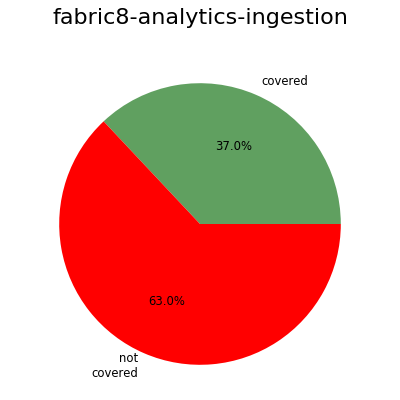
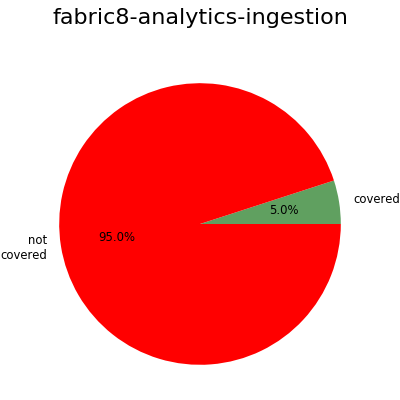
Dashboard 2018-06-06

diff --git a/dashboard/fabric8-analytics-common.cc.A.html b/dashboard/fabric8-analytics-common.cc.A.html
@@ -97,46 +97,42 @@ dashboard/src/s3_configuration.py
     <span style="color:#00AAAA">C </span>5:0 S3Configuration - <span style="color:#00AA00">A (1)</span>
     <span style="color:#00AA00">M </span>8:4 S3Configuration.__init__ - <span style="color:#00AA00">A (1)</span>
 dashboard/src/dashboard.py
-    <span style="color:#AA00AA">F </span>330:0 update_overall_status - <span style="color:#00AA00">B (9)</span>
-    <span style="color:#AA00AA">F </span>205:0 parse_linter_results - <span style="color:#00AA00">B (8)</span>
-    <span style="color:#AA00AA">F </span>455:0 prepare_data_for_repositories - <span style="color:#00AA00">B (8)</span>
-    <span style="color:#AA00AA">F </span>283:0 compute_status - <span style="color:#00AA00">B (7)</span>
-    <span style="color:#AA00AA">F </span>255:0 parse_cyclomatic_complexity - <span style="color:#00AA00">B (6)</span>
-    <span style="color:#AA00AA">F </span>562:0 main - <span style="color:#00AA00">B (6)</span>
-    <span style="color:#AA00AA">F </span>60:0 check_system - <span style="color:#00AA00">A (5)</span>
-    <span style="color:#AA00AA">F </span>546:0 production_smoketests_status - <span style="color:#00AA00">A (5)</span>
-    <span style="color:#AA00AA">F </span>270:0 parse_maintainability_index - <span style="color:#00AA00">A (4)</span>
-    <span style="color:#AA00AA">F </span>319:0 remark_unit_test_coverage - <span style="color:#00AA00">A (3)</span>
-    <span style="color:#AA00AA">F </span>397:0 export_into_csv - <span style="color:#00AA00">A (3)</span>
-    <span style="color:#AA00AA">F </span>520:0 jobs_as_dict - <span style="color:#00AA00">A (3)</span>
-    <span style="color:#AA00AA">F </span>538:0 read_job_statuses - <span style="color:#00AA00">A (3)</span>
-    <span style="color:#AA00AA">F </span>30:0 check_environment_variable - <span style="color:#00AA00">A (2)</span>
-    <span style="color:#AA00AA">F </span>42:0 check_environment_variables - <span style="color:#00AA00">A (2)</span>
-    <span style="color:#AA00AA">F </span>142:0 clone_or_fetch_repository - <span style="color:#00AA00">A (2)</span>
-    <span style="color:#AA00AA">F </span>167:0 run_cyclomatic_complexity_tool - <span style="color:#00AA00">A (2)</span>
-    <span style="color:#AA00AA">F </span>183:0 run_maintainability_index - <span style="color:#00AA00">A (2)</span>
-    <span style="color:#AA00AA">F </span>196:0 percentage - <span style="color:#00AA00">A (2)</span>
-    <span style="color:#AA00AA">F </span>295:0 remark_linter - <span style="color:#00AA00">A (2)</span>
-    <span style="color:#AA00AA">F </span>302:0 remark_docstyle - <span style="color:#00AA00">A (2)</span>
-    <span style="color:#AA00AA">F </span>309:0 remark_linter_vs_docstyle - <span style="color:#00AA00">A (2)</span>
-    <span style="color:#AA00AA">F </span>389:0 cleanup_repository - <span style="color:#00AA00">A (2)</span>
-    <span style="color:#AA00AA">F </span>498:0 read_jobs_statuses - <span style="color:#00AA00">A (2)</span>
-    <span style="color:#AA00AA">F </span>504:0 store_jobs_statuses - <span style="color:#00AA00">A (2)</span>
-    <span style="color:#AA00AA">F </span>557:0 get_code_coverage_threshold - <span style="color:#00AA00">A (2)</span>
-    <span style="color:#AA00AA">F </span>121:0 is_repository_cloned - <span style="color:#00AA00">A (1)</span>
-    <span style="color:#AA00AA">F </span>126:0 clone_repository - <span style="color:#00AA00">A (1)</span>
-    <span style="color:#AA00AA">F </span>135:0 fetch_repository - <span style="color:#00AA00">A (1)</span>
-    <span style="color:#AA00AA">F </span>150:0 run_pylint - <span style="color:#00AA00">A (1)</span>
-    <span style="color:#AA00AA">F </span>158:0 run_docstyle_check - <span style="color:#00AA00">A (1)</span>
-    <span style="color:#AA00AA">F </span>240:0 parse_pylint_results - <span style="color:#00AA00">A (1)</span>
-    <span style="color:#AA00AA">F </span>245:0 parse_docstyle_results - <span style="color:#00AA00">A (1)</span>
-    <span style="color:#AA00AA">F </span>250:0 prepare_radon_results - <span style="color:#00AA00">A (1)</span>
-    <span style="color:#AA00AA">F </span>382:0 delete_work_files - <span style="color:#00AA00">A (1)</span>
-    <span style="color:#AA00AA">F </span>426:0 prepare_data_for_liveness_table - <span style="color:#00AA00">A (1)</span>
-    <span style="color:#AA00AA">F </span>444:0 prepare_data_for_sla_table - <span style="color:#00AA00">A (1)</span>
-    <span style="color:#AA00AA">F </span>510:0 jenkins_api_query_job_statuses - <span style="color:#00AA00">A (1)</span>
-    <span style="color:#AA00AA">F </span>515:0 jenkins_api_query_build_statuses - <span style="color:#00AA00">A (1)</span>
-    <span style="color:#AA00AA">F </span>525:0 read_ci_jobs_statuses - <span style="color:#00AA00">A (1)</span>
+    <span style="color:#AA00AA">F </span>302:0 update_overall_status - <span style="color:#00AA00">B (9)</span>
+    <span style="color:#AA00AA">F </span>177:0 parse_linter_results - <span style="color:#00AA00">B (8)</span>
+    <span style="color:#AA00AA">F </span>427:0 prepare_data_for_repositories - <span style="color:#00AA00">B (8)</span>
+    <span style="color:#AA00AA">F </span>255:0 compute_status - <span style="color:#00AA00">B (7)</span>
+    <span style="color:#AA00AA">F </span>227:0 parse_cyclomatic_complexity - <span style="color:#00AA00">B (6)</span>
+    <span style="color:#AA00AA">F </span>534:0 main - <span style="color:#00AA00">B (6)</span>
+    <span style="color:#AA00AA">F </span>61:0 check_system - <span style="color:#00AA00">A (5)</span>
+    <span style="color:#AA00AA">F </span>518:0 production_smoketests_status - <span style="color:#00AA00">A (5)</span>
+    <span style="color:#AA00AA">F </span>242:0 parse_maintainability_index - <span style="color:#00AA00">A (4)</span>
+    <span style="color:#AA00AA">F </span>291:0 remark_unit_test_coverage - <span style="color:#00AA00">A (3)</span>
+    <span style="color:#AA00AA">F </span>369:0 export_into_csv - <span style="color:#00AA00">A (3)</span>
+    <span style="color:#AA00AA">F </span>492:0 jobs_as_dict - <span style="color:#00AA00">A (3)</span>
+    <span style="color:#AA00AA">F </span>510:0 read_job_statuses - <span style="color:#00AA00">A (3)</span>
+    <span style="color:#AA00AA">F </span>31:0 check_environment_variable - <span style="color:#00AA00">A (2)</span>
+    <span style="color:#AA00AA">F </span>43:0 check_environment_variables - <span style="color:#00AA00">A (2)</span>
+    <span style="color:#AA00AA">F </span>139:0 run_cyclomatic_complexity_tool - <span style="color:#00AA00">A (2)</span>
+    <span style="color:#AA00AA">F </span>155:0 run_maintainability_index - <span style="color:#00AA00">A (2)</span>
+    <span style="color:#AA00AA">F </span>168:0 percentage - <span style="color:#00AA00">A (2)</span>
+    <span style="color:#AA00AA">F </span>267:0 remark_linter - <span style="color:#00AA00">A (2)</span>
+    <span style="color:#AA00AA">F </span>274:0 remark_docstyle - <span style="color:#00AA00">A (2)</span>
+    <span style="color:#AA00AA">F </span>281:0 remark_linter_vs_docstyle - <span style="color:#00AA00">A (2)</span>
+    <span style="color:#AA00AA">F </span>361:0 cleanup_repository - <span style="color:#00AA00">A (2)</span>
+    <span style="color:#AA00AA">F </span>470:0 read_jobs_statuses - <span style="color:#00AA00">A (2)</span>
+    <span style="color:#AA00AA">F </span>476:0 store_jobs_statuses - <span style="color:#00AA00">A (2)</span>
+    <span style="color:#AA00AA">F </span>529:0 get_code_coverage_threshold - <span style="color:#00AA00">A (2)</span>
+    <span style="color:#AA00AA">F </span>122:0 run_pylint - <span style="color:#00AA00">A (1)</span>
+    <span style="color:#AA00AA">F </span>130:0 run_docstyle_check - <span style="color:#00AA00">A (1)</span>
+    <span style="color:#AA00AA">F </span>212:0 parse_pylint_results - <span style="color:#00AA00">A (1)</span>
+    <span style="color:#AA00AA">F </span>217:0 parse_docstyle_results - <span style="color:#00AA00">A (1)</span>
+    <span style="color:#AA00AA">F </span>222:0 prepare_radon_results - <span style="color:#00AA00">A (1)</span>
+    <span style="color:#AA00AA">F </span>354:0 delete_work_files - <span style="color:#00AA00">A (1)</span>
+    <span style="color:#AA00AA">F </span>398:0 prepare_data_for_liveness_table - <span style="color:#00AA00">A (1)</span>
+    <span style="color:#AA00AA">F </span>416:0 prepare_data_for_sla_table - <span style="color:#00AA00">A (1)</span>
+    <span style="color:#AA00AA">F </span>482:0 jenkins_api_query_job_statuses - <span style="color:#00AA00">A (1)</span>
+    <span style="color:#AA00AA">F </span>487:0 jenkins_api_query_build_statuses - <span style="color:#00AA00">A (1)</span>
+    <span style="color:#AA00AA">F </span>497:0 read_ci_jobs_statuses - <span style="color:#00AA00">A (1)</span>
 dashboard/src/smoke_tests.py
     <span style="color:#00AA00">M </span>41:4 SmokeTests.read_ci_results - <span style="color:#00AA00">A (4)</span>
     <span style="color:#00AA00">M </span>34:4 SmokeTests.read_logs - <span style="color:#00AA00">A (3)</span>
@@ -155,6 +151,16 @@ dashboard/src/coreapi.py
     <span style="color:#00AAAA">C </span>6:0 CoreApi - <span style="color:#00AA00">A (1)</span>
     <span style="color:#00AA00">M </span>9:4 CoreApi.__init__ - <span style="color:#00AA00">A (1)</span>
     <span style="color:#00AA00">M </span>13:4 CoreApi.authorization - <span style="color:#00AA00">A (1)</span>
+dashboard/src/git_utils.py
+    <span style="color:#AA00AA">F </span>7:0 update_repository_name - <span style="color:#00AA00">A (3)</span>
+    <span style="color:#AA00AA">F </span>61:0 read_all_commits - <span style="color:#00AA00">A (3)</span>
+    <span style="color:#AA00AA">F </span>72:0 read_commits - <span style="color:#00AA00">A (3)</span>
+    <span style="color:#AA00AA">F </span>23:0 clone_repository - <span style="color:#00AA00">A (2)</span>
+    <span style="color:#AA00AA">F </span>44:0 clone_or_fetch_repository - <span style="color:#00AA00">A (2)</span>
+    <span style="color:#AA00AA">F </span>18:0 is_repository_cloned - <span style="color:#00AA00">A (1)</span>
+    <span style="color:#AA00AA">F </span>36:0 fetch_repository - <span style="color:#00AA00">A (1)</span>
+    <span style="color:#AA00AA">F </span>52:0 create_log - <span style="color:#00AA00">A (1)</span>
+    <span style="color:#AA00AA">F </span>79:0 checkout - <span style="color:#00AA00">A (1)</span>
 integration-tests/features/environment.py
     <span style="color:#AA00AA">F </span>197:0 _wait_for_system - <span style="color:#00AA00">B (10)</span>
     <span style="color:#AA00AA">F </span>448:0 before_all - <span style="color:#00AA00">B (8)</span>
@@ -919,6 +925,6 @@ perf-tests/src/gremlin_package_generator.py
     <span style="color:#00AA00">M </span>55:4 GremlinPackageGenerator.package_generator_for_ecosystem - <span style="color:#00AA00">A (2)</span>
     <span style="color:#00AA00">M </span>65:4 GremlinPackageGenerator.package_version_generator_for_ecosystem - <span style="color:#00AA00">A (2)</span>
 
-842 blocks (classes, functions, methods) analyzed.
-Average complexity: <span style="color:#00AA00">A (2.3004750593824226)</span>
+847 blocks (classes, functions, methods) analyzed.
+Average complexity: <span style="color:#00AA00">A (2.3010625737898467)</span>
 </pre>

diff --git a/dashboard/dashboard.html b/dashboard/dashboard.html
@@ -169,9 +169,9 @@
                         <tr><th>&nbsp;</th><th>Files</th><th>Total lines</th><th>Pass</th><th>Fail</th><th>Pass %</th><th>Pass</th><th>Fail</th><th>Pass %</th><th>Stmts.</th><th>Missed</th><th>Covered</th><th>A</th><th>B</th><th>C</th><th>D</th><th>E</th><th>F</th><th>A</th><th>B</th><th>C</th><th>&nbsp;</th><th>&nbsp;</th><th>&nbsp;</th></tr>
                         <tr>
                             <td style="width:34ex"><a href="https://github.com/fabric8-analytics/fabric8-analytics-common">fabric8-analytics-common</a></td>
-                            <td class="numeric" style="width:7ex"><a href="repository_fabric8-analytics-common.html">98</a></td>
-                            <td class="numeric" style="width:7ex">11995</td>
-                            <td class="numeric ok" style="width:6ex">98</td>
+                            <td class="numeric" style="width:7ex"><a href="repository_fabric8-analytics-common.html">99</a></td>
+                            <td class="numeric" style="width:7ex">12052</td>
+                            <td class="numeric ok" style="width:6ex">99</td>
                             <td class="numeric error" style="width:6ex">0</td>
                             <td class="numeric" style="width:16ex">
                                 <a href="fabric8-analytics-common.linter.txt">
@@ -180,7 +180,7 @@
                                     </div>
                                 </a>
                             </td>
-                            <td class="numeric ok" style="width:6ex">98</td>
+                            <td class="numeric ok" style="width:6ex">99</td>
                             <td class="numeric error" style="width:6ex">0</td>
                             <td class="numeric" style="width:16ex">
                                 <a href="fabric8-analytics-common.pydocstyle.txt">
@@ -193,7 +193,7 @@
                                 <td style="width:7ex">&nbsp;</td>
                                 <td style="width:16ex">&nbsp;</td>
 
-                                <td class="numeric ignored" style="width:3ex;padding-left:0px;padding-right:2px;"><a href="fabric8-analytics-common.cc.A.html" class="numeric ignored">793</a></td>
+                                <td class="numeric ignored" style="width:3ex;padding-left:0px;padding-right:2px;"><a href="fabric8-analytics-common.cc.A.html" class="numeric ignored">798</a></td>
                                 <td class="numeric ignored" style="width:3ex;padding-left:0px;padding-right:2px;"><a href="fabric8-analytics-common.cc.B.html" class="numeric ignored">49</a></td>
                                 <td class="numeric ignored" style="width:3ex;padding-left:0px;padding-right:2px;"><a href="fabric8-analytics-common.cc.C.html" class="numeric ignored">0</a></td>
 
@@ -201,7 +201,7 @@
                                     <td class="numeric ok" style="width:3ex;padding-left:0px;padding-right:2px;"><a href="fabric8-analytics-common.cc.E.html" class="numeric ok">0</a></td>
                                     <td class="numeric ok" style="width:3ex;padding-left:0px;padding-right:2px;"><a href="fabric8-analytics-common.cc.F.html" class="numeric ok">0</a></td>
 
-                            <td class="numeric ignored" style="width:3ex;padding-left:0px;padding-right:2px;"><a href="fabric8-analytics-common.mi.A.html" class="numeric ignored">98</a></td>
+                            <td class="numeric ignored" style="width:3ex;padding-left:0px;padding-right:2px;"><a href="fabric8-analytics-common.mi.A.html" class="numeric ignored">99</a></td>
 
                                     <td class="numeric ok" style="width:3ex;padding-left:0px;padding-right:2px;"><a href="fabric8-analytics-common.mi.B.html" class="numeric ok">0</a></td>
                                     <td class="numeric ok" style="width:3ex;padding-left:0px;padding-right:2px;"><a href="fabric8-analytics-common.mi.C.html" class="numeric ok">0</a></td>
@@ -232,8 +232,8 @@
                                     </div>
                                 </a>
                             </td>
-                                <td class="numeric ok" style="width:6ex">1869</td>
-                                <td class="numeric error" style="width:6ex">924</td>
+                                <td class="numeric ok" style="width:6ex">1829</td>
+                                <td class="numeric error" style="width:6ex">894</td>
                                 <td class="numeric" style="width:16ex">
                                     <a href="fabric8-analytics-server.coverage.txt">
                                         <div class='progress-bar progress-bar-warning progress-bar-striped' style='width:58.35%'>
@@ -863,12 +863,12 @@
                                     </div>
                                 </a>
                             </td>
-                                <td class="numeric ok" style="width:6ex">237</td>
-                                <td class="numeric error" style="width:6ex">149</td>
+                                <td class="numeric ok" style="width:6ex">140</td>
+                                <td class="numeric error" style="width:6ex">133</td>
                                 <td class="numeric" style="width:16ex">
                                     <a href="fabric8-analytics-ingestion.coverage.txt">
-                                        <div class='progress-bar progress-bar-warning progress-bar-striped' style='width:46.45%'>
-                                        37%
+                                        <div class='progress-bar progress-bar-danger progress-bar-striped' style='width:19.25%'>
+                                        5%
                                         </div>
                                     </a>
                                 </td>
@@ -1244,7 +1244,7 @@
             </div>
             <div style='height:100px'></div>
             <div>Author: Pavel Tisnovsky &lt;<a href="mailto:ptisnovs@redhat.com">ptisnovs@redhat.com</a>&gt;</div>
-            <div>Generated on: 2018-06-05 10:23:45</div>
+            <div>Generated on: 2018-06-06 10:59:32</div>
         </div>
         <script type="text/javascript">
         $(function () {

diff --git a/dashboard/fabric8-analytics-common.cc.B.html b/dashboard/fabric8-analytics-common.cc.B.html
@@ -4,12 +4,12 @@
 dashboard/src/perf_tests.py
     <span style="color:#00AA00">M </span>57:4 PerfTests.compute_stat_for_result_set - <span style="color:#00AA00">B (8)</span>
 dashboard/src/dashboard.py
-    <span style="color:#AA00AA">F </span>330:0 update_overall_status - <span style="color:#00AA00">B (9)</span>
-    <span style="color:#AA00AA">F </span>205:0 parse_linter_results - <span style="color:#00AA00">B (8)</span>
-    <span style="color:#AA00AA">F </span>455:0 prepare_data_for_repositories - <span style="color:#00AA00">B (8)</span>
-    <span style="color:#AA00AA">F </span>283:0 compute_status - <span style="color:#00AA00">B (7)</span>
-    <span style="color:#AA00AA">F </span>255:0 parse_cyclomatic_complexity - <span style="color:#00AA00">B (6)</span>
-    <span style="color:#AA00AA">F </span>562:0 main - <span style="color:#00AA00">B (6)</span>
+    <span style="color:#AA00AA">F </span>302:0 update_overall_status - <span style="color:#00AA00">B (9)</span>
+    <span style="color:#AA00AA">F </span>177:0 parse_linter_results - <span style="color:#00AA00">B (8)</span>
+    <span style="color:#AA00AA">F </span>427:0 prepare_data_for_repositories - <span style="color:#00AA00">B (8)</span>
+    <span style="color:#AA00AA">F </span>255:0 compute_status - <span style="color:#00AA00">B (7)</span>
+    <span style="color:#AA00AA">F </span>227:0 parse_cyclomatic_complexity - <span style="color:#00AA00">B (6)</span>
+    <span style="color:#AA00AA">F </span>534:0 main - <span style="color:#00AA00">B (6)</span>
 integration-tests/features/environment.py
     <span style="color:#AA00AA">F </span>197:0 _wait_for_system - <span style="color:#00AA00">B (10)</span>
     <span style="color:#AA00AA">F </span>448:0 before_all - <span style="color:#00AA00">B (8)</span>

diff --git a/dashboard/repository_fabric8-analytics-common.html b/dashboard/repository_fabric8-analytics-common.html
@@ -128,7 +128,7 @@
                     </tr>
                     <tr>
                         <td><a href="https://github.com/fabric8-analytics/fabric8-analytics-common/blob/master/dashboard/src/dashboard.py">dashboard/src/dashboard.py</a></td>
-                        <td class="numeric">625</td>
+                        <td class="numeric">597</td>
                             <td class="boolean ok">&#x2713;</td>
                             <td class="boolean ok">&#x2713;</td>
                     </tr>
@@ -147,6 +147,12 @@
                     <tr>
                         <td><a href="https://github.com/fabric8-analytics/fabric8-analytics-common/blob/master/dashboard/src/coreapi.py">dashboard/src/coreapi.py</a></td>
                         <td class="numeric">23</td>
+                            <td class="boolean ok">&#x2713;</td>
+                            <td class="boolean ok">&#x2713;</td>
+                    </tr>
+                    <tr>
+                        <td><a href="https://github.com/fabric8-analytics/fabric8-analytics-common/blob/master/dashboard/src/git_utils.py">dashboard/src/git_utils.py</a></td>
+                        <td class="numeric">85</td>
                             <td class="boolean ok">&#x2713;</td>
                             <td class="boolean ok">&#x2713;</td>
                     </tr>
@@ -616,7 +622,7 @@
             </div>
             <div style='height:100px'></div>
             <div>Author: Pavel Tisnovsky &lt;<a href="mailto:ptisnovs@redhat.com">ptisnovs@redhat.com</a>&gt;</div>
-            <div>Generated on: 2018-06-05 10:23:45</div>
+            <div>Generated on: 2018-06-06 10:59:32</div>
         </div>
     </body>
 </html>

diff --git a/dashboard/fabric8-analytics-common.mi.A.html b/dashboard/fabric8-analytics-common.mi.A.html
@@ -15,10 +15,11 @@ dashboard/src/html_generator.py - <span style="color:#00AA00">A (100.00)</span>
 dashboard/src/config.py - <span style="color:#00AA00">A (60.91)</span>
 dashboard/src/source_files.py - <span style="color:#00AA00">A (71.09)</span>
 dashboard/src/s3_configuration.py - <span style="color:#00AA00">A (100.00)</span>
-dashboard/src/dashboard.py - <span style="color:#00AA00">A (23.71)</span>
+dashboard/src/dashboard.py - <span style="color:#00AA00">A (24.47)</span>
 dashboard/src/smoke_tests.py - <span style="color:#00AA00">A (58.86)</span>
 dashboard/src/progress_bar.py - <span style="color:#00AA00">A (65.55)</span>
 dashboard/src/coreapi.py - <span style="color:#00AA00">A (64.91)</span>
+dashboard/src/git_utils.py - <span style="color:#00AA00">A (58.68)</span>
 integration-tests/features/environment.py - <span style="color:#00AA00">A (32.28)</span>
 integration-tests/features/src/schema_validator.py - <span style="color:#00AA00">A (100.00)</span>
 integration-tests/features/src/parsing.py - <span style="color:#00AA00">A (85.92)</span>

diff --git a/dashboard/repository_f8a-server-backbone.html b/dashboard/repository_f8a-server-backbone.html
@@ -106,7 +106,7 @@
             </div>
             <div style='height:100px'></div>
             <div>Author: Pavel Tisnovsky &lt;<a href="mailto:ptisnovs@redhat.com">ptisnovs@redhat.com</a>&gt;</div>
-            <div>Generated on: 2018-06-05 10:23:45</div>
+            <div>Generated on: 2018-06-06 10:59:32</div>
         </div>
     </body>
 </html>

diff --git a/dashboard/repository_fabric8-analytics-data-model.html b/dashboard/repository_fabric8-analytics-data-model.html
@@ -148,7 +148,7 @@
             </div>
             <div style='height:100px'></div>
             <div>Author: Pavel Tisnovsky &lt;<a href="mailto:ptisnovs@redhat.com">ptisnovs@redhat.com</a>&gt;</div>
-            <div>Generated on: 2018-06-05 10:23:45</div>
+            <div>Generated on: 2018-06-06 10:59:32</div>
         </div>
     </body>
 </html>

diff --git a/dashboard/repository_fabric8-analytics-ingestion.html b/dashboard/repository_fabric8-analytics-ingestion.html
@@ -106,7 +106,7 @@
             </div>
             <div style='height:100px'></div>
             <div>Author: Pavel Tisnovsky &lt;<a href="mailto:ptisnovs@redhat.com">ptisnovs@redhat.com</a>&gt;</div>
-            <div>Generated on: 2018-06-05 10:23:45</div>
+            <div>Generated on: 2018-06-06 10:59:32</div>
         </div>
     </body>
 </html>

diff --git a/dashboard/repository_fabric8-analytics-jobs.html b/dashboard/repository_fabric8-analytics-jobs.html
@@ -274,7 +274,7 @@
             </div>
             <div style='height:100px'></div>
             <div>Author: Pavel Tisnovsky &lt;<a href="mailto:ptisnovs@redhat.com">ptisnovs@redhat.com</a>&gt;</div>
-            <div>Generated on: 2018-06-05 10:23:45</div>
+            <div>Generated on: 2018-06-06 10:59:32</div>
         </div>
     </body>
 </html>

diff --git a/dashboard/repository_fabric8-analytics-license-analysis.html b/dashboard/repository_fabric8-analytics-license-analysis.html
@@ -202,7 +202,7 @@
             </div>
             <div style='height:100px'></div>
             <div>Author: Pavel Tisnovsky &lt;<a href="mailto:ptisnovs@redhat.com">ptisnovs@redhat.com</a>&gt;</div>
-            <div>Generated on: 2018-06-05 10:23:45</div>
+            <div>Generated on: 2018-06-06 10:59:32</div>
         </div>
     </body>
 </html>

diff --git a/dashboard/repository_fabric8-analytics-npm-insights.html b/dashboard/repository_fabric8-analytics-npm-insights.html
@@ -148,7 +148,7 @@
             </div>
             <div style='height:100px'></div>
             <div>Author: Pavel Tisnovsky &lt;<a href="mailto:ptisnovs@redhat.com">ptisnovs@redhat.com</a>&gt;</div>
-            <div>Generated on: 2018-06-05 10:23:45</div>
+            <div>Generated on: 2018-06-06 10:59:32</div>
         </div>
     </body>
 </html>

diff --git a/dashboard/repository_fabric8-analytics-nvd-toolkit.html b/dashboard/repository_fabric8-analytics-nvd-toolkit.html
@@ -226,7 +226,7 @@
             </div>
             <div style='height:100px'></div>
             <div>Author: Pavel Tisnovsky &lt;<a href="mailto:ptisnovs@redhat.com">ptisnovs@redhat.com</a>&gt;</div>
-            <div>Generated on: 2018-06-05 10:23:45</div>
+            <div>Generated on: 2018-06-06 10:59:32</div>
         </div>
     </body>
 </html>
